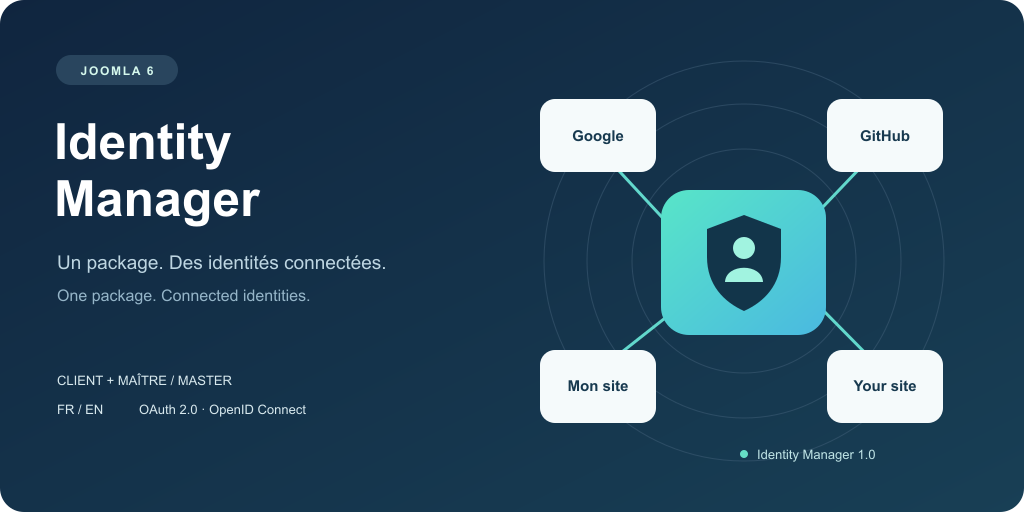
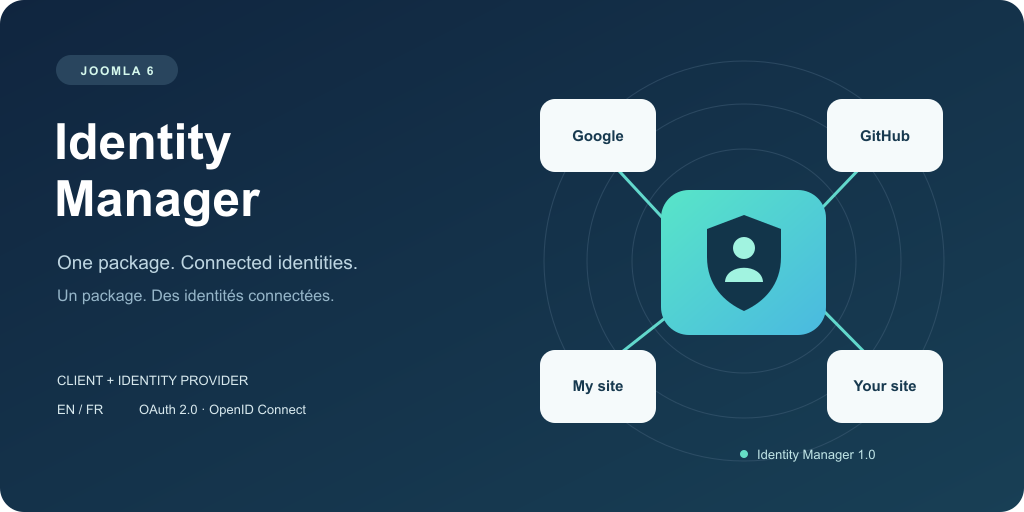
Use canonical identitymanager links and English-first presentation

diff --git a/tools/validate.py b/tools/validate.py
@@ -40,7 +40,7 @@ if package.exists():
  assert feed is not None and feed.findtext('version')==version, 'Update feed version differs'
  assert feed.findtext('element')=='pkg_identitymanager' and feed.findtext('type')=='package', 'Wrong update target'
  assert feed.findtext('client')=='site', 'Packages use client_id=0; without client=site Joomla cannot match the installed package'
- assert feed.findtext('downloads/downloadurl')==f'https://github.com/YGomiero/identitymanager-joomla/releases/download/{version}/{package.name}', 'Wrong download URL'
+ assert feed.findtext('downloads/downloadurl')==f'https://github.com/YGomiero/identitymanager/releases/download/{version}/{package.name}', 'Wrong download URL'
  for algorithm in ['sha256','sha384','sha512']:
   assert feed.findtext(algorithm)==hashlib.new(algorithm,package.read_bytes()).hexdigest(), f'Wrong {algorithm} checksum'
  sums=(root/'dist/SHA256SUMS').read_text(encoding='ascii').splitlines()

diff --git a/tools/build.py b/tools/build.py
@@ -4,7 +4,7 @@ import hashlib, io, json, zipfile, xml.etree.ElementTree as ET
 
 ROOT=Path(__file__).resolve().parents[1]
 VERSION=ET.parse(ROOT/'package/pkg_identitymanager.xml').getroot().findtext('version')
-REPO='https://github.com/YGomiero/identitymanager-joomla'
+REPO='https://github.com/YGomiero/identitymanager'
 DIST=ROOT/'dist'
 DIST.mkdir(exist_ok=True)
 

diff --git a/docs/releases/1.0.5.md b/docs/releases/1.0.5.md
@@ -1,13 +1,3 @@
-## Français
-
-Choisissez la page affichée après une connexion externe : accueil, lien de menu existant ou URL du site. Ce réglage se trouve dans le module Connexion, onglet Connexions externes, et s’applique notamment aux connexions GitHub, Google et Joomla. L’accueil est choisi par défaut. La destination est conservée lorsqu’un compte local existant doit être confirmé ; l’ajout d’un fournisseur depuis un compte déjà connecté revient à Mes connexions externes.
-
-Le consentement du site maître décrit désormais les informations demandées en langage courant : identifiant de compte, nom, nom d’utilisateur, adresse e-mail et état de vérification. Il précise que le mot de passe n’est pas partagé. Les textes sont disponibles en français et en anglais.
-
-Installez **pkg_identitymanager-1.0.5.zip**. Le même package sert au maître et au client et conserve les réglages et identités liées lors de la mise à jour. Le téléchargement du ZIP et le flux de mise à jour Joomla sont publics et ne nécessitent aucun compte GitHub.
-
-[Guide français](https://github.com/YGomiero/identitymanager-joomla/blob/main/docs/installation.fr.md) · [Signaler un problème](https://github.com/YGomiero/identitymanager-joomla/issues)
-
 ## English
 
 Choose the page displayed after external sign-in: home page, an existing menu item or a URL on the same site. Configure it in the Login module’s External sign-in tab for providers including GitHub, Google and Joomla. The home page is the default. The destination is preserved when an existing local account needs confirmation; linking another provider while already signed in returns to My external connections.
@@ -16,4 +6,14 @@ The master consent screen now describes the requested information in plain langu
 
 Install **pkg_identitymanager-1.0.5.zip**. The same package serves master and client sites and retains settings and linked identities during an upgrade. The ZIP download and Joomla update feed are public and require no GitHub account.
 
-[English guide](https://github.com/YGomiero/identitymanager-joomla/blob/main/docs/installation.en.md) · [Report an issue](https://github.com/YGomiero/identitymanager-joomla/issues)
+[English guide](https://github.com/YGomiero/identitymanager/blob/main/docs/installation.en.md) · [Report an issue](https://github.com/YGomiero/identitymanager/issues)
+
+## Français
+
+Choisissez la page affichée après une connexion externe : accueil, lien de menu existant ou URL du site. Ce réglage se trouve dans le module Connexion, onglet Connexions externes, et s’applique notamment aux connexions GitHub, Google et Joomla. L’accueil est choisi par défaut. La destination est conservée lorsqu’un compte local existant doit être confirmé ; l’ajout d’un fournisseur depuis un compte déjà connecté revient à Mes connexions externes.
+
+Le consentement du site maître décrit désormais les informations demandées en langage courant : identifiant de compte, nom, nom d’utilisateur, adresse e-mail et état de vérification. Il précise que le mot de passe n’est pas partagé. Les textes sont disponibles en français et en anglais.
+
+Installez **pkg_identitymanager-1.0.5.zip**. Le même package sert au maître et au client et conserve les réglages et identités liées lors de la mise à jour. Le téléchargement du ZIP et le flux de mise à jour Joomla sont publics et ne nécessitent aucun compte GitHub.
+
+[Guide français](https://github.com/YGomiero/identitymanager/blob/main/docs/installation.fr.md) · [Signaler un problème](https://github.com/YGomiero/identitymanager/issues)

diff --git a/docs/releases/1.0.4.md b/docs/releases/1.0.4.md
@@ -1,15 +1,3 @@
-## Français
-
-Évite de perdre l’accès à un compte créé par connexion externe : avant de délier le dernier fournisseur, confirmez un mot de passe Joomla local ou ajoutez un autre fournisseur. Un lien ouvre le profil pour définir ce mot de passe pendant la session. La suppression demande une confirmation protégée ; les anciens liens révoqués ne sont pas restaurés automatiquement.
-
-Relier deux Joomla devient plus simple : choisissez le fournisseur Joomla et saisissez l’adresse du maître, le nom affiché et les identifiants de liaison. Les adresses OpenID Connect sont préparées automatiquement. Le maître peut générer les identifiants et afficher le secret une seule fois après l’enregistrement.
-
-Corrige aussi un ancien retour de réassociation conservé par Joomla, qui pouvait afficher une demande expirée après une déconnexion normale.
-
-Installez **pkg_identitymanager-1.0.4.zip**, ou utilisez la mise à jour Joomla. Le même package sert au maître et au client. Documentation et interface en français et anglais.
-
-[Guide français](https://github.com/YGomiero/identitymanager-joomla/blob/main/docs/installation.fr.md) · [Signaler un problème](https://github.com/YGomiero/identitymanager-joomla/issues)
-
 ## English
 
 Prevent loss of access after external registration: before unlinking the last provider, confirm a local Joomla password or add another provider. A profile link lets signed-in members set that password. Removal requires a protected confirmation; previously revoked links are not restored automatically.
@@ -20,4 +8,16 @@ Also clear a stale Joomla relinking return that could display an expired-request
 
 Install **pkg_identitymanager-1.0.4.zip**, or use Joomla’s updater. The same package serves master and client sites. Interface and documentation are available in French and English.
 
-[English guide](https://github.com/YGomiero/identitymanager-joomla/blob/main/docs/installation.en.md) · [Report an issue](https://github.com/YGomiero/identitymanager-joomla/issues)
+[English guide](https://github.com/YGomiero/identitymanager/blob/main/docs/installation.en.md) · [Report an issue](https://github.com/YGomiero/identitymanager/issues)
+
+## Français
+
+Évite de perdre l’accès à un compte créé par connexion externe : avant de délier le dernier fournisseur, confirmez un mot de passe Joomla local ou ajoutez un autre fournisseur. Un lien ouvre le profil pour définir ce mot de passe pendant la session. La suppression demande une confirmation protégée ; les anciens liens révoqués ne sont pas restaurés automatiquement.
+
+Relier deux Joomla devient plus simple : choisissez le fournisseur Joomla et saisissez l’adresse du maître, le nom affiché et les identifiants de liaison. Les adresses OpenID Connect sont préparées automatiquement. Le maître peut générer les identifiants et afficher le secret une seule fois après l’enregistrement.
+
+Corrige aussi un ancien retour de réassociation conservé par Joomla, qui pouvait afficher une demande expirée après une déconnexion normale.
+
+Installez **pkg_identitymanager-1.0.4.zip**, ou utilisez la mise à jour Joomla. Le même package sert au maître et au client. Documentation et interface en français et anglais.
+
+[Guide français](https://github.com/YGomiero/identitymanager/blob/main/docs/installation.fr.md) · [Signaler un problème](https://github.com/YGomiero/identitymanager/issues)

diff --git a/docs/releases/1.0.3.md b/docs/releases/1.0.3.md
@@ -1,15 +1,3 @@
-## Français
-
-Corrige le parcours de réassociation d’une identité externe : après une déliaison, un retour GitHub répété ou un second clic reprend la confirmation du compte Joomla local au lieu d’afficher une erreur de session. Le code OAuth n’est pas rejoué et la liaison reste désactivée jusqu’à la connexion au compte local d’origine.
-
-Le formulaire de confirmation ne propose plus de relancer la connexion externe. Les messages précisent le site concerné et indiquent comment définir un mot de passe local avec « Mot de passe perdu ? ». Les demandes expirent après dix minutes.
-
-Lorsqu’un compte local possède déjà la même adresse e-mail, le site demande sa connexion puis termine la liaison automatiquement. Un lien « Mes connexions externes » apparaît dans le module de connexion et sur le profil, sans élément de menu à créer.
-
-Installez **pkg_identitymanager-1.0.3.zip**, ou utilisez la mise à jour Joomla, sur les sites maîtres et clients.
-
-[Documentation française](https://github.com/YGomiero/identitymanager-joomla/blob/main/README.fr.md) · [Signaler un problème](https://github.com/YGomiero/identitymanager-joomla/issues)
-
 ## English
 
 Fix external identity relinking: after unlinking, repeated GitHub callbacks or clicks resume the local Joomla account confirmation instead of showing a session error. The OAuth code is not replayed and the link remains disabled until the original local account signs in.
@@ -20,4 +8,16 @@ When a local account already has the same email, the site asks for local sign-in
 
 Install **pkg_identitymanager-1.0.3.zip**, or use Joomla's updater, on master and client sites.
 
-[English documentation](https://github.com/YGomiero/identitymanager-joomla#readme) · [Report an issue](https://github.com/YGomiero/identitymanager-joomla/issues)
+[English documentation](https://github.com/YGomiero/identitymanager#readme) · [Report an issue](https://github.com/YGomiero/identitymanager/issues)
+
+## Français
+
+Corrige le parcours de réassociation d’une identité externe : après une déliaison, un retour GitHub répété ou un second clic reprend la confirmation du compte Joomla local au lieu d’afficher une erreur de session. Le code OAuth n’est pas rejoué et la liaison reste désactivée jusqu’à la connexion au compte local d’origine.
+
+Le formulaire de confirmation ne propose plus de relancer la connexion externe. Les messages précisent le site concerné et indiquent comment définir un mot de passe local avec « Mot de passe perdu ? ». Les demandes expirent après dix minutes.
+
+Lorsqu’un compte local possède déjà la même adresse e-mail, le site demande sa connexion puis termine la liaison automatiquement. Un lien « Mes connexions externes » apparaît dans le module de connexion et sur le profil, sans élément de menu à créer.
+
+Installez **pkg_identitymanager-1.0.3.zip**, ou utilisez la mise à jour Joomla, sur les sites maîtres et clients.
+
+[Documentation française](https://github.com/YGomiero/identitymanager/blob/main/README.fr.md) · [Signaler un problème](https://github.com/YGomiero/identitymanager/issues)

diff --git a/docs/releases/1.0.2.md b/docs/releases/1.0.2.md
@@ -1,13 +1,3 @@
-## Français
-
-Corrige le refus de connexion de certains comptes Joomla pourtant actifs : une ancienne valeur `0` dans le champ d’activation, ou une demande de réinitialisation du mot de passe, n’empêche plus la connexion externe. Les comptes bloqués et les inscriptions en attente d’activation restent refusés.
-
-La correction s’applique au maître, au client et à la liaison des identités. Les erreurs de session et de compte du fournisseur Joomla sont désormais traduites.
-
-Installez **pkg_identitymanager-1.0.2.zip**, ou utilisez la mise à jour Joomla, sur les sites maîtres et clients.
-
-[Documentation française](https://github.com/YGomiero/identitymanager-joomla/blob/main/README.fr.md) · [Signaler un problème](https://github.com/YGomiero/identitymanager-joomla/issues)
-
 ## English
 
 Fix sign-in rejection for active Joomla accounts with a legacy `0` activation value or a pending password-reset request. Blocked accounts and registrations awaiting activation remain refused.
@@ -16,4 +6,14 @@ The fix covers master sign-in, client authentication and identity linking. Jooml
 
 Install **pkg_identitymanager-1.0.2.zip**, or use Joomla's updater, on master and client sites.
 
-[English documentation](https://github.com/YGomiero/identitymanager-joomla#readme) · [Report an issue](https://github.com/YGomiero/identitymanager-joomla/issues)
+[English documentation](https://github.com/YGomiero/identitymanager#readme) · [Report an issue](https://github.com/YGomiero/identitymanager/issues)
+
+## Français
+
+Corrige le refus de connexion de certains comptes Joomla pourtant actifs : une ancienne valeur `0` dans le champ d’activation, ou une demande de réinitialisation du mot de passe, n’empêche plus la connexion externe. Les comptes bloqués et les inscriptions en attente d’activation restent refusés.
+
+La correction s’applique au maître, au client et à la liaison des identités. Les erreurs de session et de compte du fournisseur Joomla sont désormais traduites.
+
+Installez **pkg_identitymanager-1.0.2.zip**, ou utilisez la mise à jour Joomla, sur les sites maîtres et clients.
+
+[Documentation française](https://github.com/YGomiero/identitymanager/blob/main/README.fr.md) · [Signaler un problème](https://github.com/YGomiero/identitymanager/issues)

diff --git a/docs/releases/1.0.1.md b/docs/releases/1.0.1.md
@@ -1,13 +1,3 @@
-## Français
-
-Correction du flux de mise à jour : Joomla identifie désormais le package installé et propose sa mise à jour. Les contrôles de construction vérifient la cible du flux, les versions des six manifestes, l'URL et les trois empreintes du ZIP.
-
-Les favicons adaptatives restent visibles sur les boutons blancs lorsque le navigateur utilise le mode sombre.
-
-Installez **pkg_identitymanager-1.0.1.zip**, ou utilisez la mise à jour Joomla. Le même package sert aux rôles maître et client. Il inclut les traductions français/anglais, les logos Google/GitHub, la favicon configurable des sites liés, l'export/vidage des journaux et le respect des inscriptions Joomla.
-
-Parcours GitHub et Joomla testés. Google réel et WordPress auto-hébergé restent à valider.
-
 ## English
 
 Fix update discovery: Joomla now matches the installed package and offers its update. Build checks validate the feed target, all six manifest versions, the download URL and three ZIP checksums.
@@ -17,3 +7,13 @@ Adaptive favicons remain visible on the white buttons when the browser uses dark
 Install **pkg_identitymanager-1.0.1.zip**, or use Joomla's updater. The same package supports master and client roles, with French/English translations, Google/GitHub logos, configurable linked-site favicons, log export/clearing and Joomla registration-policy enforcement.
 
 Real GitHub and Joomla flows were tested. Live Google and self-hosted WordPress remain unverified.
+
+## Français
+
+Correction du flux de mise à jour : Joomla identifie désormais le package installé et propose sa mise à jour. Les contrôles de construction vérifient la cible du flux, les versions des six manifestes, l'URL et les trois empreintes du ZIP.
+
+Les favicons adaptatives restent visibles sur les boutons blancs lorsque le navigateur utilise le mode sombre.
+
+Installez **pkg_identitymanager-1.0.1.zip**, ou utilisez la mise à jour Joomla. Le même package sert aux rôles maître et client. Il inclut les traductions français/anglais, les logos Google/GitHub, la favicon configurable des sites liés, l'export/vidage des journaux et le respect des inscriptions Joomla.
+
+Parcours GitHub et Joomla testés. Google réel et WordPress auto-hébergé restent à valider.

diff --git a/docs/releases/1.0.0.md b/docs/releases/1.0.0.md
@@ -1,3 +1,13 @@
+## English
+
+First packaged release for Joomla 6 / PHP 8.3+. One package for client/master roles, full French/English UI and documentation, Hybridauth providers, validated OIDC, PKCE, registration controls, provider icons, log CSV/purge/retention and checksummed Joomla updates.
+
+Install **pkg_identitymanager-1.0.0.zip**, not the source archives. Real GitHub and Joomla flows were tested; live Google and self-hosted WordPress remain unverified.
+
+[Documentation FR](https://github.com/YGomiero/identitymanager/blob/main/README.fr.md) · [English documentation](https://github.com/YGomiero/identitymanager#readme) · [Validation](https://github.com/YGomiero/identitymanager/blob/main/docs/validation.fr.md)
+
+## Français
+
 Première version distribuable d’Identity Manager pour Joomla 6 / PHP 8.3+.
 
 - Même package pour les rôles client et maître Joomla.
@@ -8,11 +18,3 @@ Première version distribuable d’Identity Manager pour Joomla 6 / PHP 8.3+.
 - Flux de mise à jour Joomla et empreintes des archives.
 
 Installez **pkg_identitymanager-1.0.0.zip**. Les archives « Source code » ne sont pas installables dans Joomla. Google réel et WordPress auto-hébergé ne sont pas validés ; les parcours GitHub et Joomla ont été testés.
-
----
-
-First packaged release for Joomla 6 / PHP 8.3+. One package for client/master roles, full French/English UI and documentation, Hybridauth providers, validated OIDC, PKCE, registration controls, provider icons, log CSV/purge/retention and checksummed Joomla updates.
-
-Install **pkg_identitymanager-1.0.0.zip**, not the source archives. Real GitHub and Joomla flows were tested; live Google and self-hosted WordPress remain unverified.
-
-[Documentation FR](https://github.com/YGomiero/identitymanager-joomla/blob/main/README.fr.md) · [English documentation](https://github.com/YGomiero/identitymanager-joomla#readme) · [Validation](https://github.com/YGomiero/identitymanager-joomla/blob/main/docs/validation.fr.md)

diff --git a/README.fr.md b/README.fr.md
@@ -1,6 +1,6 @@
-# Identity Manager pour Joomla
+# Identity Manager
 
-[English](README.md) · [Télécharger](https://github.com/YGomiero/identitymanager-joomla/releases/latest) · [Installation](docs/installation.fr.md) · [Signaler un problème](https://github.com/YGomiero/identitymanager-joomla/issues) · [Sécurité](SECURITY.md)
+[English](README.md) · [Télécharger](https://github.com/YGomiero/identitymanager/releases/latest) · [Installation](docs/installation.fr.md) · [Signaler un problème](https://github.com/YGomiero/identitymanager/issues) · [Sécurité](SECURITY.md)
 
 ![Identity Manager — un package, des identités connectées](docs/identitymanager.svg)
 
@@ -23,6 +23,8 @@ Installez **`pkg_identitymanager-1.0.5.zip`**, pas l’archive du code source pr
 La création exige **deux autorisations** : Utilisateurs → Paramètres → Autoriser l’inscription des utilisateurs, et Identity Manager → Création automatique de comptes. Désactiver l’une suffit à bloquer la création, même si une connexion avait commencé auparavant. Les comptes déjà liés continuent à se connecter. La validation par un administrateur impose une inscription préalable avec Joomla ; l’auto-activation par e-mail exige une adresse vérifiée par le fournisseur externe.
 
 ## Périmètre vérifié
+
+Les [captures de l’interface en anglais](README.md#screenshots) présentent le paramétrage Joomla, la destination après connexion et le consentement sur un site de démonstration local.
 
 La première version a été testée sur Joomla 6.2.0 / PHP 8.3.30 avec une véritable connexion GitHub et des connexions entre Joomla. Google est intégré, mais n’a pas été vérifié avec une application OAuth Google réelle. Une adresse locale en `.test` ne convient pas à l’URL de retour d’un client web Google. WordPress.com figure dans le catalogue Hybridauth ; un WordPress auto-hébergé exige une extension serveur OAuth/OIDC et n’a pas été testé.
 

diff --git a/SECURITY.md b/SECURITY.md
@@ -1,8 +1,8 @@
 # Security / Sécurité
 
-Report bugs and suspected vulnerabilities through [GitHub Issues](https://github.com/YGomiero/identitymanager-joomla/issues). Include the affected version, a minimal reproduction, expected impact and a safe sample without credentials, personal information or live tokens. Do not publish an exploit against a live site. Supported release line: 1.x; the 0.1.0 prototype is not supported.
+Report bugs and suspected vulnerabilities through [GitHub Issues](https://github.com/YGomiero/identitymanager/issues). Include the affected version, a minimal reproduction, expected impact and a safe sample without credentials, personal information or live tokens. Do not publish an exploit against a live site. Supported release line: 1.x; the 0.1.0 prototype is not supported.
 
-Signalez les problèmes et les vulnérabilités dans les [Issues GitHub](https://github.com/YGomiero/identitymanager-joomla/issues), avec la version, les étapes de reproduction et l’impact attendu. Retirez les identifiants, données personnelles et jetons. Ne publiez pas de procédure d’exploitation visant un site réel. La branche 1.x est suivie ; le prototype 0.1.0 n’est plus pris en charge.
+Signalez les problèmes et les vulnérabilités dans les [Issues GitHub](https://github.com/YGomiero/identitymanager/issues), avec la version, les étapes de reproduction et l’impact attendu. Retirez les identifiants, données personnelles et jetons. Ne publiez pas de procédure d’exploitation visant un site réel. La branche 1.x est suivie ; le prototype 0.1.0 n’est plus pris en charge.
 
 ## Controls / Protections
 

diff --git a/README.md b/README.md
@@ -1,6 +1,6 @@
-# Identity Manager for Joomla
+# Identity Manager
 
-[Français](README.fr.md) · [Download](https://github.com/YGomiero/identitymanager-joomla/releases/latest) · [Installation](docs/installation.en.md) · [Report an issue](https://github.com/YGomiero/identitymanager-joomla/issues) · [Security](SECURITY.md)
+[Français](README.fr.md) · [Download](https://github.com/YGomiero/identitymanager/releases/latest) · [Installation](docs/installation.en.md) · [Report an issue](https://github.com/YGomiero/identitymanager/issues) · [Security](SECURITY.md)
 
 ![Identity Manager — one package, connected identities](docs/identitymanager.svg)
 
@@ -21,6 +21,16 @@ Install **`pkg_identitymanager-1.0.5.zip`**, not GitHub's source-code archive. I
 ## Registration follows Joomla
 
 New accounts require **both** Joomla Users → Options → Allow User Registration and Identity Manager → Automatic account creation. Closing either switch prevents external account creation, including when a login started before the change. Existing linked accounts still sign in. Administrator activation requires prior registration through Joomla; email self-activation requires a verified external email.
+
+## Screenshots
+
+English interface on a local demonstration site:
+
+![Guided setup for another Joomla site](docs/screenshots/joomla-provider-setup-en.jpg)
+
+![Choose the destination after external sign-in](docs/screenshots/sign-in-redirect-en.jpg)
+
+![Plain-language consent before sharing identity information](docs/screenshots/consent-en.jpg)
 
 ## Tested scope
 

diff --git a/docs/installation.fr.md b/docs/installation.fr.md
@@ -10,7 +10,7 @@ Un **seul package** contient le composant d’administration/site, le plugin sys
 
 Les réglages, fournisseurs, secrets chiffrés et identités liées sont conservés lors d’une mise à jour. La désinstallation supprime les tables de l’extension et leurs données ; exportez les journaux et sauvegardez avant de désinstaller. Les comptes utilisateurs Joomla eux-mêmes restent présents.
 
-Le flux de mise à jour est : `https://github.com/YGomiero/identitymanager-joomla/releases/latest/download/update.xml`. Après publication d’une nouvelle version, utilisez le système de mise à jour normal des extensions Joomla. Ne modifiez pas les ZIP d’une version déjà publiée.
+Le flux de mise à jour est : `https://github.com/YGomiero/identitymanager/releases/latest/download/update.xml`. Après publication d’une nouvelle version, utilisez le système de mise à jour normal des extensions Joomla. Ne modifiez pas les ZIP d’une version déjà publiée.
 
 Le dépôt GitHub, les téléchargements et le flux de mise à jour Joomla sont publics. Aucun compte GitHub n’est nécessaire pour télécharger le paquet installable ou recevoir les mises à jour.
 
